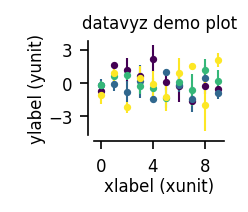
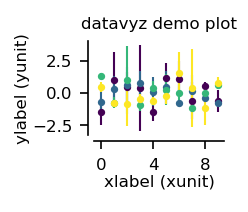
update scatter

diff --git a/datavyz/scatter_plots.py b/datavyz/scatter_plots.py
@@ -7,6 +7,7 @@ from datavyz.adjust_plots import *
 
 def two_variable_analysis(first_observations,
                           second_observations,
+                          cls=None,
                           with_correl_annotation=True,
                           ylabel='y-value', xlabel='x-value',
                           colormap=None, ms=4):
@@ -14,10 +15,13 @@ def two_variable_analysis(first_observations,
     if len(first_observations)!=len(second_observations):
         print('Pb with sample size !! Test is not applicable !!')
 
+    if cls is None:
+        from datavyz import ge as cls
+    
     if colormap is None:
         def colormap(x):return 'k'
         
-    fig, ax = figure()
+    fig, ax = cls.figure(right=4.)
     
     for i in range(len(first_observations)):
         ax.plot([first_observations[i]], [second_observations[i]], 'o', color=colormap(i/(len(first_observations)-1)), ms=ms)
@@ -27,11 +31,11 @@ def two_variable_analysis(first_observations,
         lin = np.polyfit(first_observations, second_observations, 1)
         x = np.linspace(np.min(first_observations), np.max(first_observations), 3)
         ax.plot(x, np.polyval(lin, x), 'k:', lw=1)
-        ax.annotate('Pearson correlation:\n c=%.2f, p=%.2f' % (c, pval), (.99,.4), xycoords='axes fraction')
+        cls.annotate(ax, '  Pearson\ncorrelation:\n c=%.2f,\n p=%.2f' % (c, pval), (.99,1.), va='top')
     else:
         c, pval = 0., 1.
         
-    set_plot(ax, ylabel=ylabel, xlabel=xlabel)
+    cls.set_plot(ax, ylabel=ylabel, xlabel=xlabel)
     
     return fig, ax, c, pval
 
@@ -42,18 +46,18 @@ def single_curve(ax, x, y, sx, sy,
                  lw=0, ms=3, elw=1):
     if (sy is None) and (sx is None):
         ax.errorbar(x, y, fmt='o-',
-                  marker=marker, color=color,
+                  color=color,
                   lw=lw, ms=ms, label=label)
     elif (sy is None):
-        ax.errorbar(x, y, xerr=sx, fmt='o-',
+        ax.errorbar(x, y, xerr=sx,
                     marker=marker, color=color,
                     lw=lw, ms=ms, elinewidth=elw, label=label)
     elif (sx is None):
-        ax.errorbar(x, y, yerr=sy, fmt='o-',
+        ax.errorbar(x, y, yerr=sy,
                     marker=marker, color=color,
                     lw=lw, ms=ms, elinewidth=elw, label=label)
     else:
-        ax.errorbar(x, y, xerr=sx, yerr=sy, fmt='o-',
+        ax.errorbar(x, y, xerr=sx, yerr=sy,
                     marker=marker, color=color,
                     lw=lw, ms=ms, elinewidth=elw, label=label)
 
@@ -98,8 +102,9 @@ if __name__=='__main__':
                          xlabel='xlabel (xunit)',
                          ylabel='ylabel (yunit)',
                          title='datavyz demo plot')
-    ge.savefig(fig, 'docs/scatter.png')
+    # ge.savefig(fig, 'docs/scatter.png')
 
-    # two_variable_analysis(np.random.randn(10), np.random.randn(10),
-    #                       colormap=viridis)
+    ge.two_variable_analysis(np.random.randn(10), np.random.randn(10),
+                             colormap=viridis)
+    ge.show()
     

diff --git a/datavyz/main.py b/datavyz/main.py
@@ -422,6 +422,13 @@ class graph_env:
         return time_freq_plot(self, t, freqs, data, coefs, **args)
 
     ################################################
+    ###### stat plots ########################
+    ################################################
+
+    def two_variable_analysis(self, first_observations, second_observations, **args):
+        return scatter_plots.two_variable_analysis(first_observations, second_observations, cls=self, **args)
+
+    ################################################
     ###### electrophy plots ########################
     ################################################
 

diff --git a/setup.py b/setup.py
@@ -28,12 +28,12 @@ setup(
     ],
     keywords='data visualization matplotlib',
     packages=find_packages(),
-    install_requires=[
-        "matplotlib",
-        "svgutils",
-        "numpy",
-        "scipy",
-        "argparse",
-        "scikit-image"
-    ]
+    # install_requires=[
+    #     "matplotlib",
+    #     "svgutils",
+    #     "numpy",
+    #     "scipy",
+    #     "argparse",
+    #     "scikit-image"
+    # ]
 )
